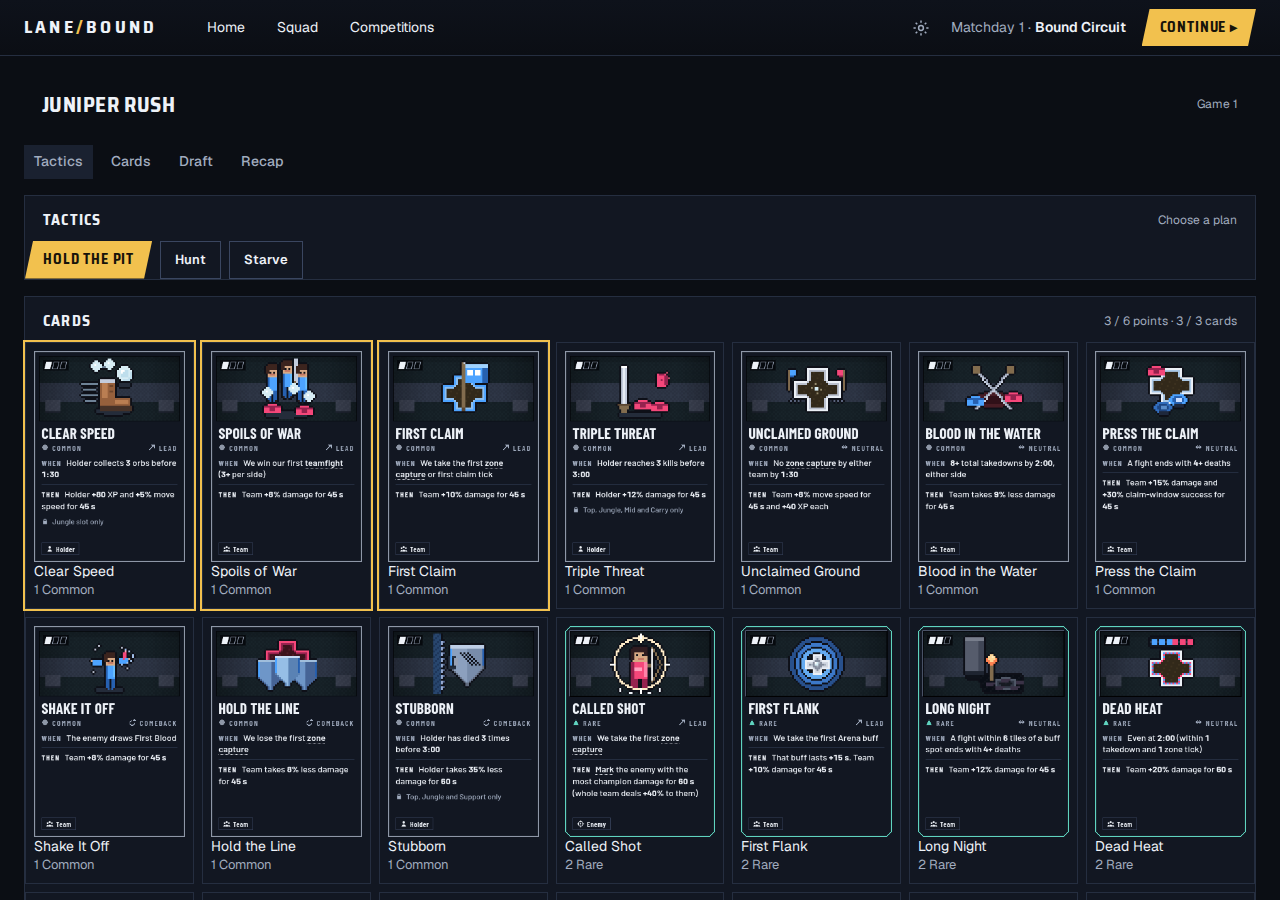
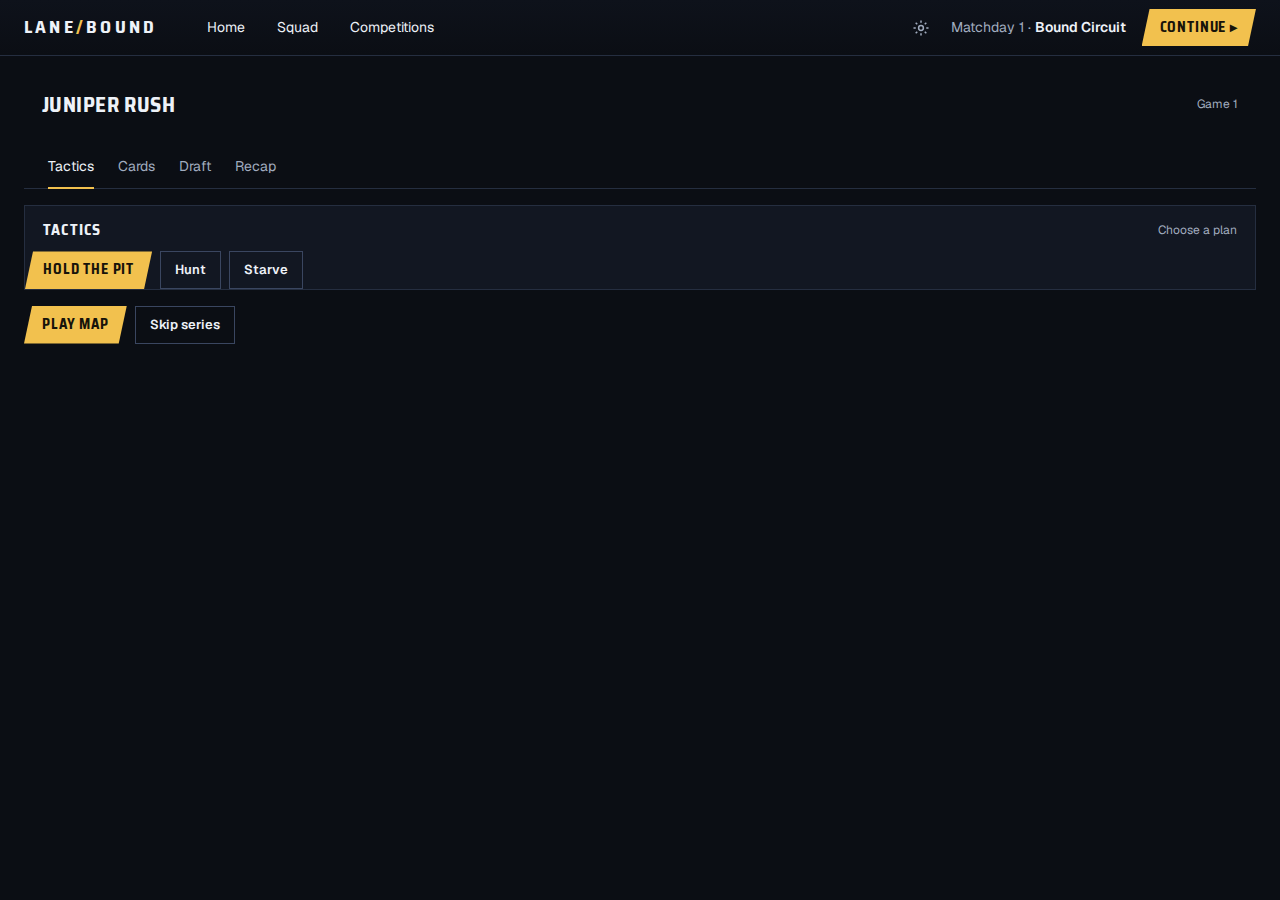
Show one match pane at a time.
Tactics, Cards, Draft and Recap share the underline sub-tabs. Opening one hides the others, so prep is no longer a single stacked page.

diff --git a/apps/career/e2e/c5.spec.ts b/apps/career/e2e/c5.spec.ts
@@ -14,22 +14,31 @@ test("a Bo3 on the fake runner stays fearless on game 2 and recaps without a rep
   await page.getByRole("button", { name: "Start career" }).click();
   await page.getByRole("button", { name: "Continue" }).click();
   await expect(page.getByRole("button", { name: "Hold the Pit" })).toBeVisible();
-  await expect(page.getByRole("button", { name: "Hunt", exact: true })).toBeVisible();
-  await expect(page.getByRole("button", { name: "Starve", exact: true })).toBeVisible();
+  await expect(page.locator('[data-screen="cards"]')).toHaveCount(0);
+  await expect(page.locator('[data-screen="draft"]')).toHaveCount(0);
+  await expect(page.getByTestId("recap")).toHaveCount(0);
+  await page.getByRole("button", { name: "Cards" }).click();
+  await expect(page.locator('[data-screen="tactics"]')).toHaveCount(0);
   await expect(page.getByText("3 / 6 points")).toBeVisible();
   await expect(page.getByText("3 / 3 cards")).toBeVisible();
+  await page.getByRole("button", { name: "Tactics" }).click();
 
   await playAndRecap(page);
   await expect(page.getByText("Game 2", { exact: true })).toBeVisible();
   await page.getByRole("button", { name: "Draft" }).click();
+  await expect(page.locator('[data-screen="tactics"]')).toHaveCount(0);
+  await expect(page.locator('[data-screen="cards"]')).toHaveCount(0);
   await expect(page.getByText("Game 2 cannot repeat game 1.")).toBeVisible();
+  await page.getByRole("button", { name: "Cards" }).click();
   await expect(page.locator('[data-screen="cards"] button').first()).toBeDisabled();
+  await page.getByRole("button", { name: "Tactics" }).click();
   await expect(page.getByRole("button", { name: "Hold the Pit" })).toBeDisabled();
 
   await playAndRecap(page);
   if (await page.getByText("Game 3", { exact: true }).isVisible()) await playAndRecap(page);
   await page.getByRole("button", { name: "Draft" }).click();
   await expect(page.getByText("Game 1", { exact: true })).toBeVisible();
+  await page.getByRole("button", { name: "Cards" }).click();
   await expect(page.locator('[data-screen="cards"] button').first()).toBeEnabled();
 });
 
@@ -39,14 +48,15 @@ test("prep and recap at the three desktop widths", async ({ page }) => {
       name: "09-tactics",
       open: async (page) => {
         await enter(page);
-        await page.locator('[data-screen="tactics"]').scrollIntoViewIfNeeded();
+        await expect(page.locator('[data-screen="tactics"]')).toBeVisible();
       },
     },
     {
       name: "09c-tactics-cards",
       open: async (page) => {
         await enter(page);
-        await page.locator('[data-screen="cards"]').evaluate((el) => el.scrollIntoView({ block: "start" }));
+        await page.getByRole("button", { name: "Cards" }).click();
+        await expect(page.locator('[data-screen="cards"]')).toBeVisible();
       },
     },
     {
@@ -56,7 +66,7 @@ test("prep and recap at the three desktop widths", async ({ page }) => {
         await page.getByTestId("play-map").click();
         await expect(page.getByTestId("recap")).toBeVisible();
         await page.getByRole("button", { name: "Draft" }).click();
-        await page.locator('[data-screen="draft"]').evaluate((el) => el.scrollIntoView({ block: "start" }));
+        await expect(page.locator('[data-screen="draft"]')).toBeVisible();
       },
     },
     {

diff --git a/apps/career/src/match.tsx b/apps/career/src/match.tsx
@@ -16,6 +16,15 @@ const COACH = [
   "You are the coach now. Tips turn off after this map.",
 ];
 
+const PANES = [
+  ["tactics", "Tactics"],
+  ["cards", "Cards"],
+  ["draft", "Draft"],
+  ["recap", "Recap"],
+] as const;
+
+export type MatchPane = (typeof PANES)[number][0];
+
 export function MatchDeck({
   session,
   mode,
@@ -23,9 +32,9 @@ export function MatchDeck({
   onMode,
 }: {
   session: CareerSession;
-  mode: "prep" | "recap";
+  mode: MatchPane;
   onSession: (session: CareerSession) => void;
-  onMode: (mode: "prep" | "recap" | "cards" | "tactics" | "draft") => void;
+  onMode: (mode: MatchPane) => void;
 }) {
   const locked = session.open_games.length > 0;
   const [picked, setPicked] = useState(session.loadout.map((slot) => slot.id));
@@ -51,22 +60,14 @@ export function MatchDeck({
           <p className="note">{mark}</p>
         </section>
       ) : null}
-      <div className="sub">
-        <Button variant="ghost" className={mode === "prep" ? "on" : ""} onClick={() => onMode("tactics")}>
-          Tactics
-        </Button>
-        <Button variant="ghost" onClick={() => onMode("cards")}>
-          Cards
-        </Button>
-        <Button variant="ghost" onClick={() => onMode("draft")}>
-          Draft
-        </Button>
-        <Button variant="ghost" className={mode === "recap" ? "on" : ""} onClick={() => onMode("recap")}>
-          Recap
-        </Button>
+      <div className="subtabs" data-testid="match-tabs">
+        {PANES.map(([id, label]) => (
+          <button key={id} type="button" className={mode === id ? "on" : ""} onClick={() => onMode(id)}>
+            {label}
+          </button>
+        ))}
       </div>
-      {mode === "prep" ? (
-        <>
+      {mode === "tactics" ? (
           <section className="card" data-screen="tactics">
             <div className="ch">
               <h3>Tactics</h3>
@@ -85,6 +86,8 @@ export function MatchDeck({
               ))}
             </div>
           </section>
+      ) : null}
+      {mode === "cards" ? (
           <section className="card" data-screen="cards">
             <div className="ch">
               <h3>Cards</h3>
@@ -122,6 +125,8 @@ export function MatchDeck({
             </div>
             {cardNote ? <p className="note">{cardNote}</p> : null}
           </section>
+      ) : null}
+      {mode === "draft" ? (
           <section className="card" data-screen="draft" data-testid="draft">
             <div className="ch">
               <h3>Draft</h3>
@@ -137,6 +142,8 @@ export function MatchDeck({
               </div>
             ))}
           </section>
+      ) : null}
+      {mode === "recap" ? <Recap map={map} players={session.players} /> : null}
           <div className="row">
             <Button
               variant="primary"
@@ -161,10 +168,6 @@ export function MatchDeck({
               Skip series
             </Button>
           </div>
-        </>
-      ) : (
-        <Recap map={map} players={session.players} />
-      )}
     </main>
   );
 }

diff --git a/apps/career/src/CareerApp.tsx b/apps/career/src/CareerApp.tsx
@@ -18,7 +18,7 @@ import { clubPromise } from "./promises";
 import { readSave, writeSave } from "./save";
 import { Button } from "./ui/button";
 
-type Screen = "menu" | "pick" | "home" | "players" | "lineup" | "contracts" | "league" | "bracket" | "fixtures" | "prep" | "recap" | "cards" | "tactics" | "draft" | "awards";
+type Screen = "menu" | "pick" | "home" | "players" | "lineup" | "contracts" | "league" | "bracket" | "fixtures" | "recap" | "cards" | "tactics" | "draft" | "awards";
 
 type View =
   | { kind: "session"; session: CareerSession }
@@ -154,7 +154,7 @@ export function CareerApp() {
           <div className="date">
             {dayLabel} · <b>Bound Circuit</b>
           </div>
-          <Button variant="primary" onClick={() => setScreen("prep")}>
+          <Button variant="primary" onClick={() => setScreen("tactics")}>
             Continue ▸
           </Button>
         </header>
@@ -200,10 +200,10 @@ export function CareerApp() {
         </main>
       ) : null}
 
-      {session && (screen === "prep" || screen === "recap" || screen === "cards" || screen === "tactics" || screen === "draft") ? (
+      {session && (screen === "recap" || screen === "cards" || screen === "tactics" || screen === "draft") ? (
         <MatchDeck
           session={session}
-          mode={screen === "recap" ? "recap" : "prep"}
+          mode={screen}
           onSession={(next) => setView({ kind: "session", session: next })}
           onMode={setScreen}
         />

diff --git a/apps/career/e2e/cd-c6.spec.ts b/apps/career/e2e/cd-c6.spec.ts
@@ -1,0 +1,35 @@
+import { expect, test, type Page } from "playwright/test";
+
+test.beforeEach(async ({ page }) => {
+  await page.goto("/");
+  await page.evaluate(() => indexedDB.deleteDatabase("lanebound-career"));
+  await page.reload();
+});
+
+test("match tabs show one pane", async ({ page }) => {
+  await page.setViewportSize({ width: 1440, height: 900 });
+  await start(page);
+  await page.getByRole("button", { name: "Continue" }).click();
+  await expect(page.locator('[data-testid="match-tabs"]')).toHaveClass(/subtabs/);
+  await expectOne(page, "tactics");
+  await page.getByRole("button", { name: "Cards" }).click();
+  await expectOne(page, "cards");
+  await page.getByRole("button", { name: "Draft" }).click();
+  await expectOne(page, "draft");
+  await page.getByRole("button", { name: "Recap" }).click();
+  await expectOne(page, "");
+  await expect(page.getByText("No map yet.")).toBeVisible();
+});
+
+async function expectOne(page: Page, screen: string) {
+  for (const pane of ["tactics", "cards", "draft"]) {
+    await expect(page.locator(`[data-screen="${pane}"]`)).toHaveCount(pane === screen ? 1 : 0);
+  }
+  await expect(page.getByTestId("recap")).toHaveCount(0);
+}
+
+async function start(page: Page) {
+  await page.getByRole("button", { name: "New career" }).click();
+  await page.getByTestId("club-juniper-rush").click();
+  await page.getByRole("button", { name: "Start career" }).click();
+}
